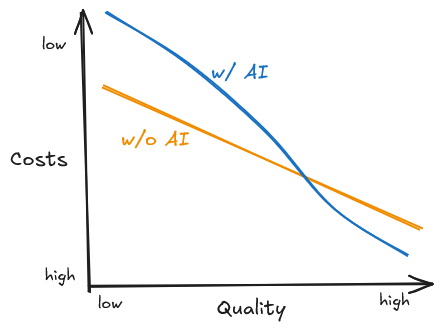
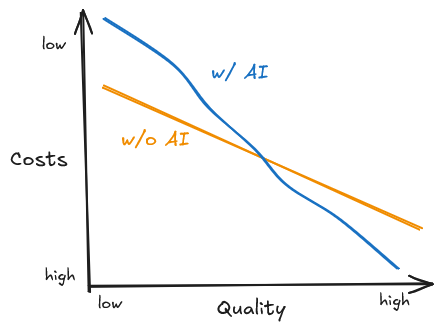
updated sat

diff --git a/_publications/2025-07-16-sats-ai-deskilling.md b/_publications/2025-07-16-sats-ai-deskilling.md
@@ -8,41 +8,64 @@ tags:
   - hype
 ---
    
-In behavioral sciences, there is a ubiquitous effect for all kinds of  speed-accuracy tradeoff. In this post I'll take that concept and use it to complicate the question "Does AI actually work?" in a way that will, I hope, make it easier to see what kind of [project](https://ali-alkhatib.com/blog/defining-ai) AI really is.  
+In behavioral sciences, there is a ubiquitous effect, found in all kinds of situations: a speed-accuracy tradeoff. In this post I'll take that concept and use it to complicate the question "Does AI actually work?" in a way that will, I hope, make it easier to see what kind of [project](https://ali-alkhatib.com/blog/defining-ai) AI really is.  
    
-So, what's a speed-accuracy tradeoff? Well, in many, many cases, if people (or animals) have to perform tasks above a certain speed, they tend to become increasingly less accurate. To take an example close to my own background, from psycholinguistics: people who can read are quite excellent at deciding whether a sequence of letters is a word in their native language or not (a so-called lexical decision task). But if you show them a sequence on a screen and force them to make the decision very quickly, their performance will at some point start to deteriorate. Different tasks will obviously differ (even differ dramatically) in their particular tradeoffs, but we can visualize the general idea in a plot that shows some kind of negative correlation between speed and accuracy. The particulars may vary quite a bit, so here's some examples of what the tradeoffs could look like: 
+So, what is a speed-accuracy tradeoff? Well, take some task, maybe a well-studied one from somewhere close to my own academic background, a so-called lexical decision task. We put some series of letters on a screen, and then ask people if this is a word (in English, or perhaps some other language that the person knows). As you might imagine, people who can read are usually quite excellent at deciding whether a sequence of letters is a word, or what we'd call a nonce word. But as you might also imagine, if we give them less and less time, forcing them to make the decision ever faster, there comes a point where performance starts to deteriorate. And the faster they have to be, the more "mistakes" people make. In other words, there is a tradeoff between speed and accuracy. Such speed-accuracy tradeoffs are ubiquitous, they've been studied for myriad tasks, and for humans and animals alike. Different tasks will obviously differ (even differ dramatically) in their particular tradeoffs, but we can visualize the general idea in a plot that shows some kind of negative correlation between speed and accuracy. The particulars may vary quite a bit, so here's some examples of what the tradeoffs could look like: 
  
    
-![Three different downward sloping lines on a graph where the X axis is labeled accuracy (low to high), and the Y axis is labeled speed (low to high).](https://hagenblix.github.io/images/speed-accuracy-tradeoffs/sats.png)
+![Three different downward sloping lines on a graph where the X axis is labeled accuracy (low to high), and the Y axis is labeled speed (low to high).](/images/speed-accuracy-tradeoffs/sats.png){: .align-center}
 
    
-As a general rule, higher accuracy implies lower speed, and higher speed implies lower accuracy. If we want to put it in mathematical terms, we can say these functions are all downward monotonic. That is, they only ever fall or stay flat, but we don't generally get situations where the curve moves upwards, i.e., where an increase in speed would correlate with an increase in accuracy. That is, after all, why we call it a tradeoff -- more speed implies less accuracy, and higher accuracy implies a lower speed.  
+As a general rule (or at least a general rule of thumb), higher accuracy implies lower speed, and higher speed implies lower accuracy. If we want to put it in mathematical terms, we can say these functions are all downward monotonic. That is, they only ever fall or stay flat, but we don't usually get situations where the curve moves upwards, i.e., where an increase in speed would correlate with an increase in accuracy (and we'll certainly ignore that possibility for the purpose of this blogpost). That is, after all, why we call it a tradeoff -- more speed implies less accuracy, and higher accuracy implies a lower speed.  
    
-Now, we can generalize this a bit: if you want it done to a higher degree of precision, a higher level of (average) quality, and so on, it'll take more time. Or perhaps, it costs more money -- two things that are decidedly not the same, but which can look the same on a company balance sheet (and hence "to capital", as seen through the logic of capital, etc). So let's call it a cost-quality tradeoff. Again, any such curve will be highly task specific -- some things take a long time, some things take only a little. Some things improve rapidly in quality when I add just a little time, others take a lot of time for just a small amount of improvement. Improvements aren't equally distributed -- perhaps the first extra minute I give myself helps a lot, but the second minute only marginally improves the outcome. And so on. But we're in the realm of the vague and abstract, so let's just assume that cost-quality tradeoffs can be characterized as a downward monotonic function (one that only ever falls or stays flat). So if we produced the same kind of graph, but for cost-quality tradeoffs, it would look like this:  
-   
-   
-![A graph with the same three different downward sloping lines on a graph where the X axis is labeled quality (low to high), and the Y axis is labeled cost (high to low).](https://hagenblix.github.io/images/speed-accuracy-tradeoffs/cqts.png)
+Now, we can generalize this a bit: if you want something done to a higher degree of precision, a higher level of (average) quality, and so on, it'll take more time. Or perhaps, it costs more money -- two things that are decidedly not the same, but which can look the same on a company balance sheet (and hence "to capital", as seen through the logic of capital, etc). So let's call it a cost-quality tradeoff. Again, any such curve will be highly task specific -- some things take a long time, some things take only a little. Some things improve rapidly in quality when you take just a little extra time, others take a lot of time for just a small amount of improvement. Improvements aren't equally distributed -- perhaps the first extra minute I give myself helps a lot, but the second minute only marginally improves the outcome. And so on. But we're in the realm of the vague and abstract, so let's just assume that cost-quality tradeoffs can be characterized as a downward monotonic function (one that only ever falls or stays flat). So we could relabel our speed-accuracy graph like this:
    
    
-Perhaps a little confusingly, I've now labeled costs as going from high to low. That's because low speed (taking a lot of time) is expensive. If a worker takes an hour to do a task, they have to be paid twice as much as if they only took half an hour, and so on. This way of drawing it also has the advantage that both the cost axis and the quality axis to go from less to more desirable: high costs are less desirable than low costs, and low quality is less desirable than high quality. At least all else being equal - after all, we're talking about a tradeoff.  
+![A graph with the same three different downward sloping lines on a graph where the X axis is labeled quality (low to high), and the Y axis is labeled cost (high to low).](/images/speed-accuracy-tradeoffs/cqts.png){: .align-center}
+{% comment %} 
+https://excalidraw.com/#json=mhOcxrpwenfKD66W1K0h7,ACfkHMyAxAotUI1Va24vUg
+{% endcomment %}
    
-Now, we're not focused in the ways different tasks differ, right now, so let's do a somewhat silly but hopefully innocent simplification, and represent the cost-quality tradeoff in general as a generic downward sloping line.  
+   
+Perhaps a little confusingly, I've now labeled costs as going from high to low. That's because low speed (taking a lot of time) is expensive. If a worker takes an hour to do a task, they have to be paid twice as much as if they only took half an hour, and so on. This way of drawing it also has the advantage that both the cost axis and the quality axis to go from less to more desirable (certainly more desirable for capitalists, managers, etc): high costs are less desirable than low costs, and low quality is less desirable than high quality. At least all else being equal - after all, we're talking about a tradeoff.  
+   
+Now, we're not focused in the ways different tasks differ, right now, so let's do another somewhat silly but hopefully innocent simplification, and represent the cost-quality tradeoff in general as a generic downward sloping line.  
    
 
-![A graph with a simple downward sloping line. The X axis is labeled quality (low to high), and the Y axis is labeled cost (high to low).](https://hagenblix.github.io/images/speed-accuracy-tradeoffs/baseline.png)
+![A graph with a simple downward sloping line. The X axis is labeled quality (low to high), and the Y axis is labeled cost (high to low).](/images/speed-accuracy-tradeoffs/baseline.png){: .align-center}
+
+Alright, our imaginary world is super simple now, so let's finally introduce some artificial intelligence. Let's assume that the previous graph is the "before AI" description of some work task. Time to wonder how AI might affect the curve. First, let's disregard the AI-booster scenario ("Yes, of course AI works, yay, it works even better than humans!!"): in such a scenario, AI could help achieve higher quality at lower costs, shifting the cost-quality trade-off across the board. Certainly, AI "doesn't work" in that regard. So, a clear nod of agreement in that way to all my friends who rightly love to debunk and deflate the lies and exaggerations of AI peddlers. But I think a picture that is both clearer and more discomforting emerges when we move beyond that particular binary yes/no question of "Does AI work?". The trade-off doesn't require a uniform answer across the board, but instead it does something stranger. I suspect that for plenty of "economically valuable" tasks (as those eye-roll-inducing AGI descriptions have it) the comparison looks something like this:  
    
    
-Let's assume that represents the world into which AI enters. Let's disregard the AI-booster scenario right away: In that scenario, AI could help achieve higher quality at lower costs, shifting the cost-quality trade-off across the board. Certainly, AI "doesn't work" in that regard. So, a clear yes in that way to all my friends who rightly love to debunk and deflate the lies and exaggerations of AI peddlers. But I think a more discomforting picture emerges when we move beyond that particular binary yes/no question of "Does AI work?". The trade-off doesn't require a uniform answer across the board, but instead it does something stranger. I suspect that for plenty of "economically valuable" tasks (as those eye-roll-inducing AGI descriptions have it) the comparison looks something like this:  
-   
-   
-![A graph with a simple downward sloping line, labeled w/o AI, and a second line labeled w/ AI. The second line is above the first line on the left side, and below the first line on the right side. The X axis is labeled quality (low to high), and the Y axis is labeled cost (high to low).](https://hagenblix.github.io/images/speed-accuracy-tradeoffs/wAIwoAI.png)
+![A graph with a simple downward sloping line, labeled w/o AI, and a second line labeled w/ AI. The second line is above the first line on the left side, and below the first line on the right side. The X axis is labeled quality (low to high), and the Y axis is labeled cost (high to low).](/images/speed-accuracy-tradeoffs/wAIwoAI.png){: .align-center}
+{% comment %}
+https://excalidraw.com/#json=Tuk9Fk1WNmOKbJ2dIcHL2,JkBnyMz5Ipnh3bzjS_AIgg
+{% endcomment %}
 
    
 This is a scenario where low(er) quality output gets significantly cheaper, even if AI does not help with high quality output -- in the graph sketched, we even assume that beyond a certain quality requirement AI-assisted output is *more* expensive rather than less expensive. It certainly isn't trivial to [find the transition point](https://www.theregister.com/AMP/2025/07/11/ai_code_tools_slow_down/) between those, and plenty of bad things will come just from misidentifying it. Quite regardless, I think that surely, the massive amount of AI slop and AI scams already in existence suggests that something like this is happening already -- the low quality end of plenty of textual/visual/coding/etc production has already gotten so much cheaper that tons more of it are getting churned out.  
    
-But what about the realm beyond scams and slop? What about realms of the economy that don't depend on fraud but on actually producing things or services? Well, it may be useful to ask whether there were other, similar kinds of curve-shifts before AI. In [Why We Fear AI](https://bookshop.org/a/114797/9781945335174), we argue that the most obvious comparisons are things like fast fashion, or furniture (IKEA etc): some player introduces goods that are a) significantly cheaper, and b) somewhat lower quality than the previously existing mid-level goods. As a consequence, the mid-level market gets outcompeted and less durable goods crowd out much of the mid-quality market with low prices. As a consequence, the goods that are available are increasingly concentrated on either the high end, or around a relatively narrow band on the low-mid level quality. So, the IKEA/fast fashion model of market capture implies a kind of bifurcation of the available goods, both in terms of quality and in terms of costs: furniture that can survive a few moves or shoes that last 5+ years out of reach for many people at the lower end of the income spectrum, the goods that are affordable need to be replaced frequently, etc. From furniture to shoes, from pans to shirts, lots of stuff has gotten a lot cheaper and kinda shittier over the last few decades. I'll leave the exploration of the obvious similarities with Cory Doctorow's *enshitification* concept aside for another time.  
+But what about the realm beyond scams and slop? What about realms of the economy that don't depend on fraud but on actually producing things or services? Well, it may be useful to ask whether there were other, similar kinds of curve-shifts before AI. In [Why We Fear AI](https://bookshop.org/a/114797/9781945335174), we argue that the most obvious comparisons are things like fast fashion, or furniture (IKEA etc): some player introduces goods that are a) significantly cheaper, and b) somewhat lower quality than the previously existing mid-level goods. As a consequence, the mid-level market gets outcompeted and less durable goods crowd out much of the mid-quality market with low prices. As a consequence, the goods that are available are increasingly concentrated on either the high end, or around a relatively narrow band on the low-mid level quality. So, the IKEA/fast fashion model of market capture implies a kind of bifurcation of the available goods, both in terms of quality and in terms of costs: furniture that can survive a few moves or shoes that last 5+ years out of reach for many people at the lower end of the income spectrum, the goods that are affordable need to be replaced frequently, etc. From furniture to shoes, from pans to shirts, lots of stuff has gotten a lot cheaper and kinda shittier over the last few decades. I'll leave the exploration of the obvious similarities with Cory Doctorow's *enshitification* concept aside for another time. Instead, here's another pair of graphs of a hypothetical situation like this.
+
+![](/images/speed-accuracy-tradeoffs/prod_before.png){: .align-center}
+{% comment %}
+Before
+https://excalidraw.com/#json=xw7rcQM62lz3KRlSix0x0,sQXUbeSBJ1cWkUStyRZt8g
+{% endcomment %}
+
+
+In the before AI time, let's assume that all qualities are produced roughly evenly. Maybe there's a little bit of a very flat normal distribution, who knows. The point, at any rate is the change: I'd expect the middle quality (where AI stops helping) to be crowded out -- the lower quality is just getting cheaper at a much faster rate, and so it can (like fast fashion) outcompete the mid-level quality on price. AI may be "[mid](https://www.nytimes.com/2025/03/29/opinion/ai-tech-innovation.html)", but it's effects will be anti-medium-quality. So after AI, we can expect a shift like this, with the medium level quality crowded out (and less clear effects on the higher quality -- though I suspect that decreased competition from medium quality goods will often end up *increasing* the price of the higher quality goods.)
+
+
+![](/images/speed-accuracy-tradeoffs/prod_after.png){: .align-center}
+{% comment %}
+Before
+https://excalidraw.com/#json=6faFWim18j-ZCds0htyvI,_CadUOBqrNcBg6r3LXIJ2w
+{% endcomment %}
+
+
    
-What about the effects on labor? Both in these older cases of physical commodities and in the current case of AI, the moves are, to a significant degree, predicated not on increased productivity, but on the replacement of skilled (high paid) labor with less skilled labor. The more or less artisanal carpenter gets replaced by a factory worker, and all the usual methods of scientific management are applied, and so on. It's easy to see how that is also the aim with much generative AI, that it's a technology for *deskilling*, for transforming tasks within a production into tasks that can be performed with less/cheaper training, and thus for lower pay. I'll just quote a short section from our book about the effects we can expect:  
+What about the effects on labor? Both in these older cases of physical commodities and in the current case of AI, the moves are, to a significant degree, predicated not on increased productivity, but on the replacement of skilled (high paid) labor with less skilled labor. The more or less artisanal carpenter gets replaced by a factory worker, and all the usual methods of scientific management are applied, labor intensity increases, wages decrease (certainly relative to the production, likely also in absolute terms). As we argue in our book in a lot more detail, AI, especially generative AI, is (among many other things) a technology for *deskilling*, for transforming tasks within a production into tasks that can be performed with less/cheaper training, and thus for lower pay. I'll just quote a short section from our book about the effects we can expect:  
    
 >Most work that can be deskilled by generative AI will be increasingly gigified, while a small section of specialists will produce AI-free and “artisanally” for the upper crust. So-called self-driving cars already operate on a mix of automation and gig-work. The “autonomous” vehicles of General Motors subsidiary Cruise, for instance, are remotely assisted some 2–4 percent of the time, or every 2.5–5 miles, with their human “autonomous vehicle operators” continually monitoring many cars simultaneously. The rich, of course, have their driving produced artisanally already — by chauffeurs. AI tutors will be running on language models, but just as with Amazon’s warehouse surveillance and autonomous cars, AI tutoring will also be supported by a hidden underclass of deskilled gig-workers that monitor the chat windows of dozens of students at the same time. Meanwhile, the wealthy will continue to hire Ivy League PhD students to look after their children. 
 >
@@ -54,6 +77,6 @@ What about the effects on labor? Both in these older cases of physical commoditi
 >
 > (Why We Fear AI, Chapter 4)
 
-So does AI actually work? I think the tradeoff graph -- along with its interpretation in terms of Ikea, fast fashion and deskilling -- provides a better answer than "yes" or "no". It works to change the cost-quality tradeoff, with quite definite effects, and that makes AI a particular kind of tool: a tool for crushing wages, and thus for increasing the power of those that pay wages/salaries/etc vis-a-vis those that earn them. It "works" by working only on the lower-quality side of the cost-quality tradeoff, and that is precisely what allows it to *work* as a tool of deskilling. AI isn't some neutral tool -- it's a weapon of class war from above. It's crucial to be clear about this: the development of technology under capitalism is never simply about productivity, but about tradeoffs, and ultimately about power. A tool can indeed be anti-worker and anti-consumer. It's true, then, that we shouldn't simply believe the tales of golden ages "so unbelievably good that I can't even imagine" (ala Sam Altman). But we should focus on what the technology is actually for, and simply debunking their claims can leave us with the mistaken idea that AI will turn out simply useless. The cybernetician Stafford Beer said somewhere that there is "no point in claiming that the purpose of a system is to do what it constantly fails to do". I think that rhymes well with [Ali Alkhatib's point](https://ali-alkhatib.com/blog/defining-ai) that we should think about AI as a political project through and through. We should start by asking what it is that AI *actually does*, rather than getting sucked into constant arguments about what it *can't do*. And I hope thinking about speed-accuracy tradeoffs can be one little tool to complicate the question of "does it work" in a way that helps to clarify the political project -- and even its class nature.  
+So, back to our original question -- does AI actually work? I think the tradeoff graph -- along with its interpretation in terms of Ikea, fast fashion and deskilling -- provides a better way of asking the question, and a better answer than "yes" or "no". It works to change the cost-quality tradeoff, with quite definite effects, and that makes AI a particular kind of tool: a tool not just for production, but also for crushing wages. It's for increasing the *power* of those that pay wages/salaries/etc vis-a-vis those that earn them. It "works" by working only on the lower-quality side of the cost-quality tradeoff, and that is precisely what allows it to *work* as a tool of deskilling. AI isn't some neutral tool -- it's a weapon of class war from above. It's crucial to be clear about this: the development of technology under capitalism is never simply about productivity, but about tradeoffs, and ultimately about power. A tool can be inherently anti-worker and anti-consumer. It's still true, then, as the debunkers rightly have it, that we shouldn't  believe the tales of golden ages "so unbelievably good that I can't even imagine" (ala Sam Altman). But we should focus on what the technology is actually for, and simply debunking their claims can leave us with the mistaken idea that AI will turn out simply useless. The cybernetician Stafford Beer said somewhere that there is "no point in claiming that the purpose of a system is to do what it constantly fails to do". I think that rhymes well with [Ali Alkhatib's point](https://ali-alkhatib.com/blog/defining-ai) that we should think about AI as a political project through and through. We should start by asking what it is that AI *actually does*, rather than getting sucked into constant arguments about what it *can't do*. And I hope thinking about speed-accuracy tradeoffs can be one little tool to complicate the question of "does it work" in a way that helps to clarify the political project. And perhaps we can even, through clarifying the class (war) nature of that project, understand something about capitalism and the [political moment we find ourselves in right now](https://jacobin.com/2025/02/tech-workers-silicon-valley-trump).
  
 

diff --git a/hcustom.md b/hcustom.md
@@ -3,3 +3,7 @@ chmod -R 777 .
 
 # Serve locally:
 jekyll serve -l -H localhost
+
+
+# alternatively, try:
+# bundle exec jekyll s
